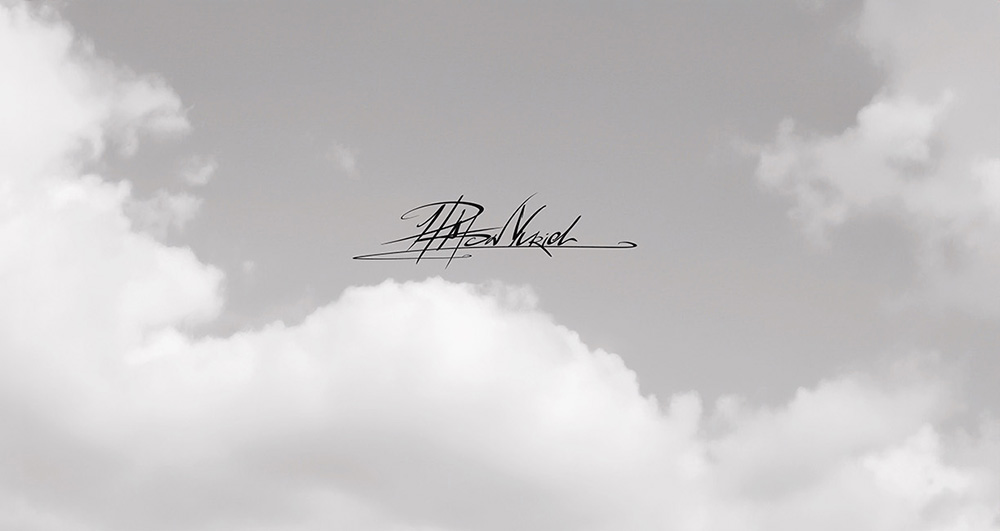
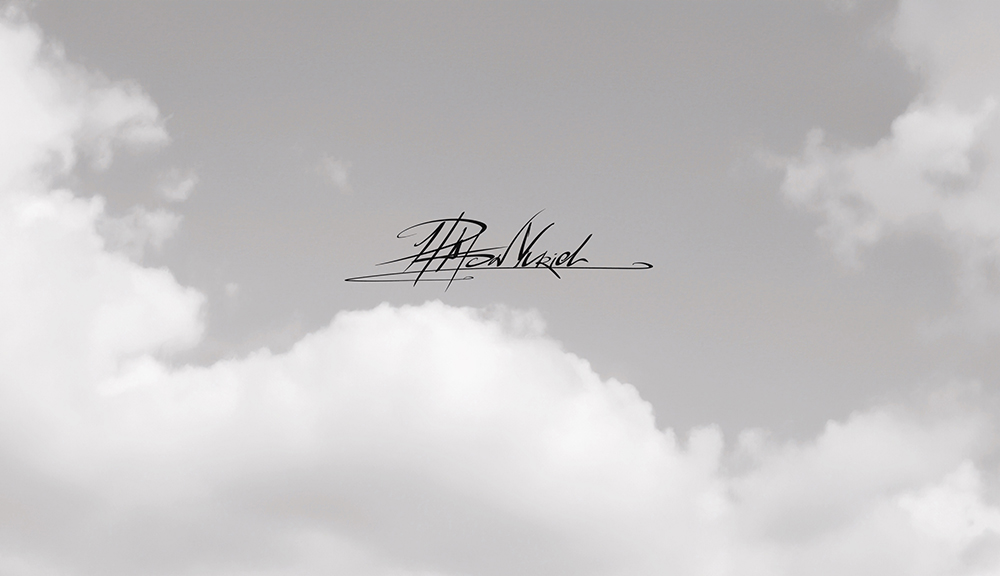
minor

diff --git a/about.html b/about.html
@@ -125,7 +125,7 @@
             <picture class="banner__picture-about-mobile">
               <source srcset="./img/about-top-mobile.webp" type="image/webp">
               <source srcset="./img/about-top-mobile.jpg" type="image/img">
-              <img class="banner__about-img-mobile" src="./img/about-top-mobile.jpg" width="1000" height="530"
+              <img class="banner__about-img-mobile" src="./img/about-top-mobile.jpg" width="1000" height="576"
                 alt="Top Image" aria-label="Top Image">
             </picture>
 
